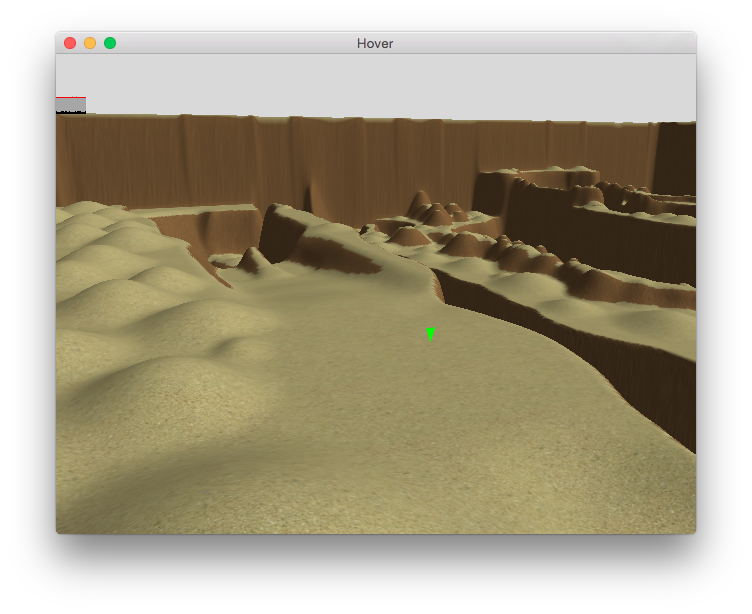
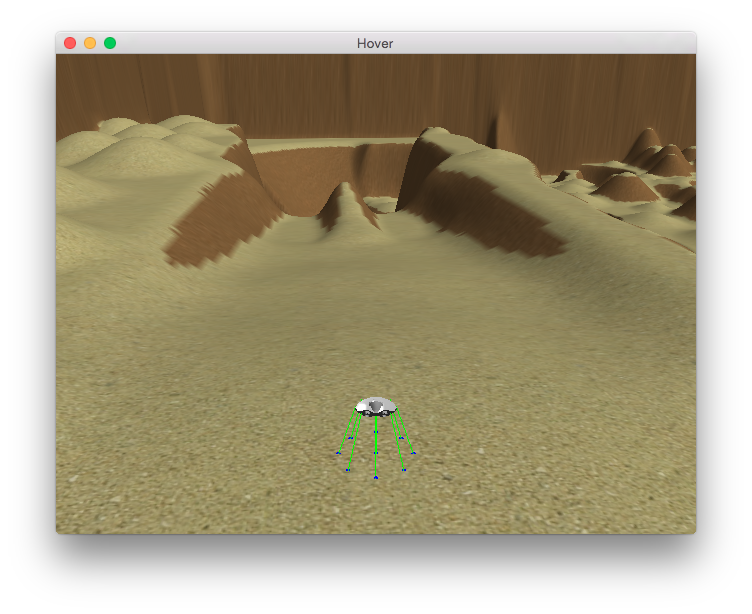
Make progress on real Hover physics.
Initial rough prototype working. Still many unimplemented features, and
constant tweaking required (unsure which constant values are a part of
the production Hover physics).

diff --git a/hovercraft.go b/hovercraft.go
@@ -19,7 +19,7 @@ import (
 // Reference: https://oeis.org/A019692
 const Tau = 2 * math.Pi
 
-var player = Hovercraft{X: 250.8339829707148, Y: 630.3799668664172, Z: 565, R: 0}
+var player = Hovercraft{X: 216, Y: 636, Z: 562.875, R: 0}
 
 var debugHeight = 0.0
 
@@ -60,7 +60,7 @@ func (this *Hovercraft) Render() {
 		mat = mat.Mul4(mgl32.HomogRotate3D(float32(player.Pitch), mgl32.Vec3{0, 1, 0}))
 
 		mat = mat.Mul4(mgl32.HomogRotate3D(Tau/4, mgl32.Vec3{0, 0, -1}))
-		mat = mat.Mul4(mgl32.Scale3D(0.12, 0.12, 0.12))
+		mat = mat.Mul4(mgl32.Scale3D(0.10, 0.10, 0.10))
 
 		gl.UniformMatrix4fv(pMatrixUniform2, pMatrix[:])
 		gl.UniformMatrix4fv(mvMatrixUniform2, mat[:])
@@ -88,8 +88,16 @@ const (
 	RACER_MAXPITCHRATE = 0.75 * math.Pi
 	RACER_MAXROLLRATE  = 0.75 * math.Pi
 
+	GRAVITY        = 55.0
+	RACER_DRAG     = 0.7
+	RACER_MAXPITCH = 0.4 * math.Pi // 100000.0
+	RACER_MAXROLL  = 0.4 * math.Pi // 100000.0
+
 	RACER_LIFTTHRUST_MAXPITCHROLLACCEL = 0.07 // 0.12 // dependent on maxaccel
 	RACER_LIFTTHRUST_MAXDIST           = 28.0
+	RACER_LIFTTHRUST_MINDIST           = 1.05 // 1.5
+	RACER_LIFTTHRUST_MAXACCEL          = 13.7 // 46.0
+	RACER_LIFTTHRUST_SHOCKABSORB       = 0.7  // 1.0 0.3 0.7 // range from 0 (bouncy) to 1 (smooth)
 )
 
 func (this *Hovercraft) Input(window *glfw.Window) {
@@ -149,17 +157,66 @@ func (this *Hovercraft) Input(window *glfw.Window) {
 		this.Vel[0] += direction[0]
 		this.Vel[1] += direction[1]
 	}
+
+	/*if( input.turn ){
+		yaw += input.turn * RACER_MAXTURNRATE * deltaTime;
+	}
+
+	if( yaw > g_PI ){ yaw -= 2 * g_PI; }
+	else if( yaw < -g_PI ){ yaw += 2 * g_PI; }
+
+	lookPitch += input.lookPitch;
+
+	if( lookPitch < -RACER_MAXLOOKPITCH ){ lookPitch = -RACER_MAXLOOKPITCH;}
+	else if( lookPitch > RACER_MAXLOOKPITCH ){ lookPitch = RACER_MAXLOOKPITCH; }
+
+	FLOAT totalInclination = sqrt( input.pitch * input.pitch + input.roll * input.roll );
+	if( totalInclination > 1.0f ){
+		FLOAT scale = 1.0f / totalInclination;
+		input.pitch *= scale;
+		input.roll *= scale;
+	}
+
+	if( input.pitch ){
+		pitch += input.pitch * RACER_MAXPITCHRATE * deltaTime;
+	}
+
+	if( input.roll ){
+		roll += input.roll * RACER_MAXROLLRATE * deltaTime;
+	}*/
+
+	// Roll and pitch checked here, before calculating lift thrust, *and* afterwards.
+	if this.Roll < -RACER_MAXROLL {
+		this.Roll = -RACER_MAXROLL
+	} else if this.Roll > RACER_MAXROLL {
+		this.Roll = RACER_MAXROLL
+	}
+	if this.Pitch < -RACER_MAXPITCH {
+		this.Pitch = -RACER_MAXPITCH
+	} else if this.Pitch > RACER_MAXPITCH {
+		this.Pitch = RACER_MAXPITCH
+	}
+
+	/*if( input.accel ){
+		vel += RACER_MAXACCEL * D3DVECTOR( cosf( yaw ) * cosf( pitch ),
+			sinf( pitch ),
+			sinf( yaw ) * cosf( pitch ) ) * deltaTime;
+
+		thrustIntensity += RACER_EXHAUST_WARMUP_RATE * deltaTime;
+		if( thrustIntensity > 1.0f ){
+			thrustIntensity = 1.0f;
+		}
+	}
+	else{
+		thrustIntensity -= RACER_EXHAUST_COOLDOWN_RATE * deltaTime;
+		if( thrustIntensity < 0.0f ){
+			thrustIntensity = 0.0f;
+		}
+	}*/
 }
 
 // Update physics.
 func (this *Hovercraft) Physics() {
-	const (
-		GRAVITY        = 55.0
-		RACER_DRAG     = 0.7
-		RACER_MAXPITCH = 0.4 * math.Pi // 100000.0
-		RACER_MAXROLL  = 0.4 * math.Pi // 100000.0
-	)
-
 	// Roll and pitch checked here *and* before calculating lift thrust.
 	if this.Roll < -RACER_MAXROLL {
 		this.Roll = -RACER_MAXROLL
@@ -183,7 +240,7 @@ func (this *Hovercraft) Physics() {
 }
 
 func (pRacer *Hovercraft) racerTerrainCollide() {
-	trackZ := track.getHeightAt(pRacer.X, pRacer.Y)
+	/*trackZ := track.getHeightAt(pRacer.X, pRacer.Y)
 	dist := pRacer.Z - trackZ
 	pRacer.Vel[2] += 2.5 / dist
 
@@ -191,6 +248,55 @@ func (pRacer *Hovercraft) racerTerrainCollide() {
 		pRacer.Z = trackZ + 0.1
 		pRacer.Vel[2] = 10.0
 	}
+	return*/
+
+	var pitchCorrection float64
+	var rollCorrection float64
+
+	var normalizedVel mgl64.Vec3
+	if !pRacer.Vel.ApproxEqual(mgl64.Vec3{}) {
+		normalizedVel = pRacer.Vel.Normalize()
+	}
+
+	for thruster := range liftThrusterPositions {
+
+		mat := mgl64.Ident4()
+		mat = mat.Mul4(mgl64.HomogRotate3D(player.R, mgl64.Vec3{0, 0, -1}))
+		mat = mat.Mul4(mgl64.HomogRotate3D(player.Roll, mgl64.Vec3{1, 0, 0}))
+		mat = mat.Mul4(mgl64.HomogRotate3D(player.Pitch, mgl64.Vec3{0, 1, 0}))
+
+		vPosition := mat.Mul4x1(liftThrusterPositions[thruster].Vec4(1)).Vec3()
+		vPosition = vPosition.Add(mgl64.Vec3{player.X, player.Y, player.Z})
+
+		vDir := mat.Mul4x1(liftThrusterDirections[thruster].Vec4(1)).Vec3()
+
+		// TODO: Don't do this twice.
+		dist := track.distToTerrain(vPosition, vDir, RACER_LIFTTHRUST_MAXDIST)
+
+		if dist < 0 { // if < 0, then DistToTerrain actually returned heightAboveGround
+			panic("dist < 0: not implemented")
+		}
+
+		if dist < RACER_LIFTTHRUST_MAXDIST {
+
+			if dist < RACER_LIFTTHRUST_MINDIST {
+				dist = RACER_LIFTTHRUST_MINDIST
+			}
+			accel := (1.0 / (dist * dist)) * RACER_LIFTTHRUST_MAXACCEL * deltaTime
+
+			accel *= 1.0 + normalizedVel.Dot(vDir)*RACER_LIFTTHRUST_SHOCKABSORB
+			//pRacer.Vel = pRacer.Vel.Add(vDir.Mul(-1 * (RACER_LIFTTHRUST_MAXDIST - dist) * (RACER_LIFTTHRUST_MAXDIST - dist) * RACER_LIFTTHRUST_MAXACCEL))
+			pRacer.Vel = pRacer.Vel.Add(vDir.Mul(-accel * liftThrusterVelEffect[thruster]))
+			rollCorrection += accel * liftThrusterRollEffect[thruster]
+			pitchCorrection += accel * liftThrusterPitchEffect[thruster]
+		}
+
+		//liftThrustDistances[thruster] = dist;
+	}
+
+	pRacer.Pitch += pitchCorrection * math.Cos(pRacer.Roll)
+	//pRacer.Z += pitchCorrection * math.Sin(pRacer.Roll)
+	pRacer.Roll += rollCorrection
 }
 
 var program2 gl.Program

diff --git a/debug_shape.go b/debug_shape.go
@@ -43,9 +43,17 @@ var liftThrusterDirections,
 	var liftThrusterOrigin = mgl64.Vec3{0, 0, RACER_LIFTTHRUST_CONE}
 	for i := range liftThrusterPositions {
 		liftThrusterDirections[i] = liftThrusterPositions[i].Sub(liftThrusterOrigin).Normalize()
-		liftThrusterRollEffect[i] = RACER_LIFTTHRUST_MAXPITCHROLLACCEL * -liftThrusterPositions[i].Y() // TODO: Verify.
-		liftThrusterPitchEffect[i] = RACER_LIFTTHRUST_MAXPITCHROLLACCEL * liftThrusterPositions[i].X() // TODO: Verify.
+		liftThrusterRollEffect[i] = RACER_LIFTTHRUST_MAXPITCHROLLACCEL * liftThrusterPositions[i].Y()
+		liftThrusterPitchEffect[i] = RACER_LIFTTHRUST_MAXPITCHROLLACCEL * -liftThrusterPositions[i].X()
 		liftThrusterVelEffect[i] = 1.0
+	}
+
+	// TODO: Figure this out, verify.
+	for i := range liftThrusterPositions {
+		var vehicleModelRadius = mgl64.Vec3{0.825, 0.9625, 0.4}
+		liftThrusterPositions[i][0] *= vehicleModelRadius[0]
+		liftThrusterPositions[i][1] *= vehicleModelRadius[1]
+		liftThrusterPositions[i][2] *= vehicleModelRadius[2]
 	}
 
 	return liftThrusterDirections, liftThrusterRollEffect, liftThrusterPitchEffect, liftThrusterVelEffect
@@ -117,12 +125,12 @@ func calcThrusterDistances() []float64 {
 	var dists []float64
 	for i := range liftThrusterPositions {
 		mat := mgl64.Ident4()
-		mat = mat.Mul4(mgl64.HomogRotate3D(float64(player.R), mgl64.Vec3{0, 0, -1}))
-		mat = mat.Mul4(mgl64.HomogRotate3D(float64(player.Roll), mgl64.Vec3{1, 0, 0}))
-		mat = mat.Mul4(mgl64.HomogRotate3D(float64(player.Pitch), mgl64.Vec3{0, 1, 0}))
+		mat = mat.Mul4(mgl64.HomogRotate3D(player.R, mgl64.Vec3{0, 0, -1}))
+		mat = mat.Mul4(mgl64.HomogRotate3D(player.Roll, mgl64.Vec3{1, 0, 0}))
+		mat = mat.Mul4(mgl64.HomogRotate3D(player.Pitch, mgl64.Vec3{0, 1, 0}))
 
 		pos := mat.Mul4x1(liftThrusterPositions[i].Vec4(1)).Vec3()
-		pos = pos.Add(mgl64.Vec3{float64(player.X), float64(player.Y), float64(player.Z)})
+		pos = pos.Add(mgl64.Vec3{player.X, player.Y, player.Z})
 
 		dir := mat.Mul4x1(liftThrusterDirections[i].Vec4(1)).Vec3()
 

diff --git a/main.go b/main.go
@@ -144,6 +144,14 @@ func main() {
 	window.SetKeyCallback(func(w *glfw.Window, key glfw.Key, scancode int, action glfw.Action, mods glfw.ModifierKey) {
 		if action == glfw.Press {
 			switch key {
+			case glfw.Key1, glfw.Key2, glfw.Key3, glfw.Key4, glfw.Key5, glfw.Key6, glfw.Key7, glfw.Key8:
+				player.X = float64(track.TrackFileHeader.RacerStartPositions[key-glfw.Key1][0])
+				player.Y = float64(track.TrackFileHeader.RacerStartPositions[key-glfw.Key1][2])
+				player.Z = float64(track.TrackFileHeader.RacerStartPositions[key-glfw.Key1][1])
+				player.Vel = mgl64.Vec3{}
+				player.Pitch = 0
+				player.Roll = 0
+				player.R = 0
 			case glfw.KeyEscape:
 				window.SetShouldClose(true)
 			case glfw.KeyF1:

diff --git a/camera.go b/camera.go
@@ -10,7 +10,7 @@ type CameraI interface {
 	Input(*glfw.Window)
 }
 
-var cameraIndex int
+var cameraIndex int = 1
 var cameras = []CameraI{&camera, &camera2}
 
 // ---
